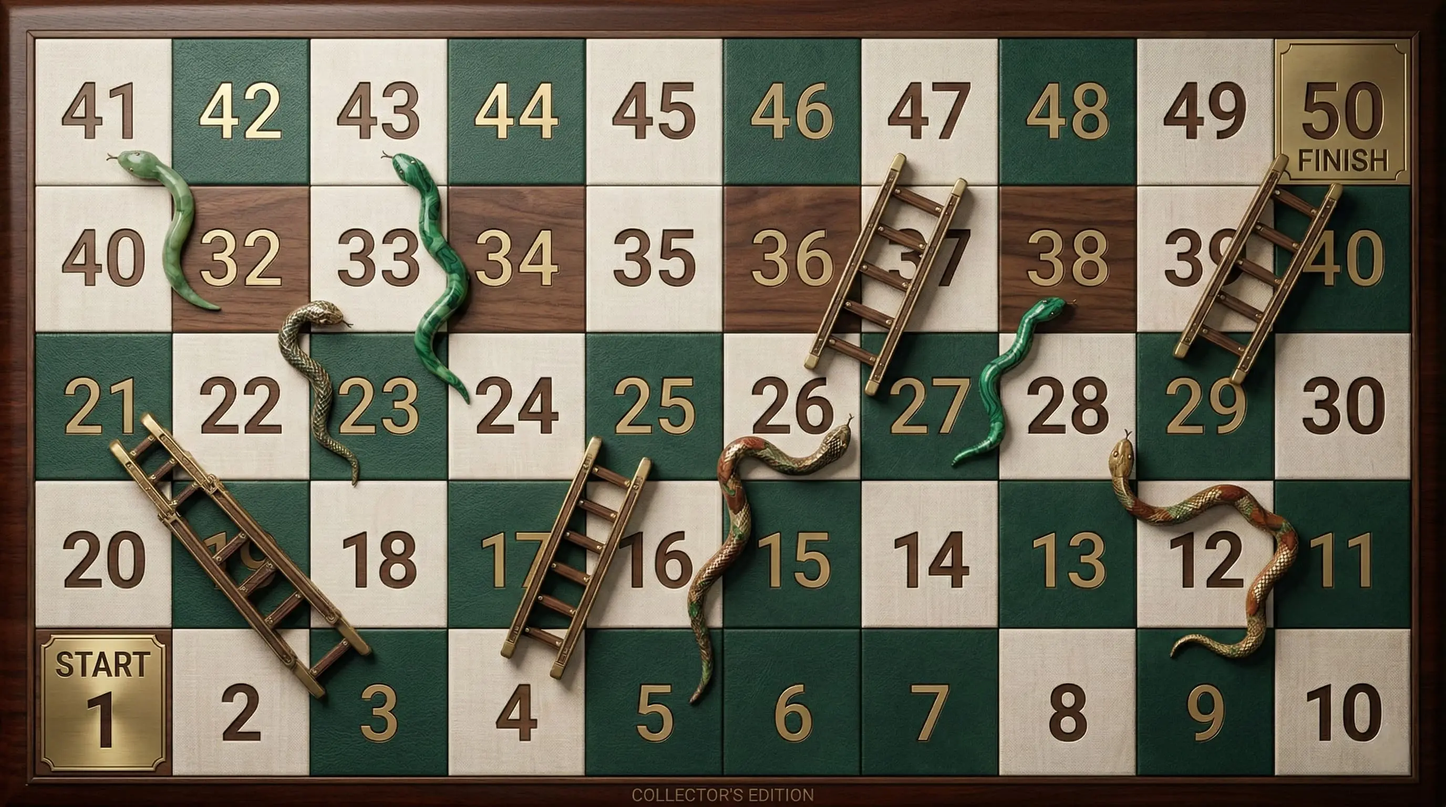
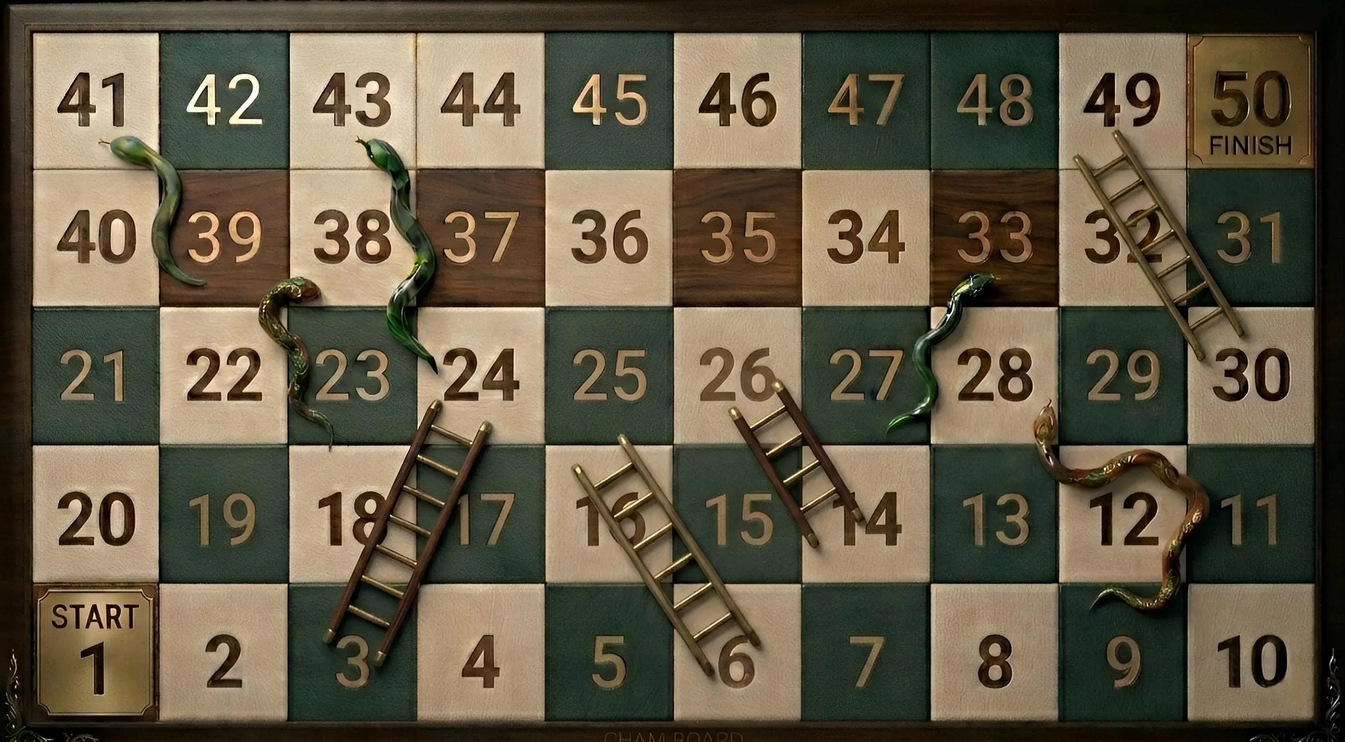
fixed the deploy error 2

diff --git a/msgreplier-main/src/app/love-space/components/snake-ladder.tsx b/msgreplier-main/src/app/love-space/components/snake-ladder.tsx
@@ -7,8 +7,8 @@ import { Dices, Trophy, RotateCcw } from 'lucide-react';
 import { toast } from 'sonner';
 
 // Collector's Edition snakes and ladders 
-const SNAKES: Record<number, number> = { 43: 24, 41: 39, 23: 22, 28: 34, 12: 9 };
-const LADDERS: Record<number, number> = { 3: 21, 4: 17, 29: 49 }; // 26 handled dynamically
+const SNAKES: Record<number, number> = { 41: 39, 43: 24, 33: 27, 22: 19, 13: 9 };
+const LADDERS: Record<number, number> = { 3: 18, 6: 16, 14: 26, 32: 49 };
 
 // 5x10 board logic
 const BOARDS_CELLS = Array.from({ length: 50 }, (_, i) => i + 1);
@@ -217,18 +217,7 @@ export function SnakeLadder({ roomId, currentMember }: { roomId: string, current
             for (let i = newPos + 1; i <= newPos + roll; i++) path.push(i);
             newPos += roll;
 
-            if (newPos === 26) {
-                const isLadder = Math.random() < 0.5;
-                if (isLadder) {
-                    newPos = 47;
-                    path.push(47);
-                    actionMessage = `${currentMember.nickname} reached square 26: Climbed the ladder to 47!`;
-                } else {
-                    newPos = 5;
-                    path.push(5);
-                    actionMessage = `${currentMember.nickname} reached square 26: Slid down the snake to 5!`;
-                }
-            } else if (SNAKES[newPos]) {
+            if (SNAKES[newPos]) {
                 const dest = SNAKES[newPos];
                 actionMessage = `${currentMember.nickname} hit a snake at ${newPos}, sliding to ${dest}!`;
                 newPos = dest;

diff --git a/msgreplier-main/src/app/love-space/components/ludo/components/Token/Token.tsx b/msgreplier-main/src/app/love-space/components/ludo/components/Token/Token.tsx
@@ -5,7 +5,8 @@ import { type TPlayer, type TPlayerColour, type TTokenClickData } from '../../ty
 import { type TToken } from '../../types';
 import { useDispatch, useSelector } from 'react-redux';
 import type { AppDispatch, RootState } from '../../state/store';
-import TokenImage from '../../assets/token.svg?react';
+import TokenImageRaw from '../../assets/token.svg?react';
+const TokenImage = (TokenImageRaw as any).default || TokenImageRaw;
 import { useCoordsToPosition } from '../../hooks/useCoordsToPosition';
 import { setTokenTransitionTime } from '../../utils/setTokenTransitionTime';
 import { changeTurnThunk } from '../../state/thunks/changeTurnThunk';

diff --git a/msgreplier-main/src/app/love-space/components/ludo/components/Board/Board.tsx b/msgreplier-main/src/app/love-space/components/ludo/components/Board/Board.tsx
@@ -1,5 +1,6 @@
 // @ts-nocheck
-import BoardImage from '../../assets/board.svg?react';
+import BoardImageRaw from '../../assets/board.svg?react';
+const BoardImage = (BoardImageRaw as any).default || BoardImageRaw;
 import Token from '../Token/Token';
 import { useDispatch, useSelector } from 'react-redux';
 import type { RootState } from '../../state/store';
